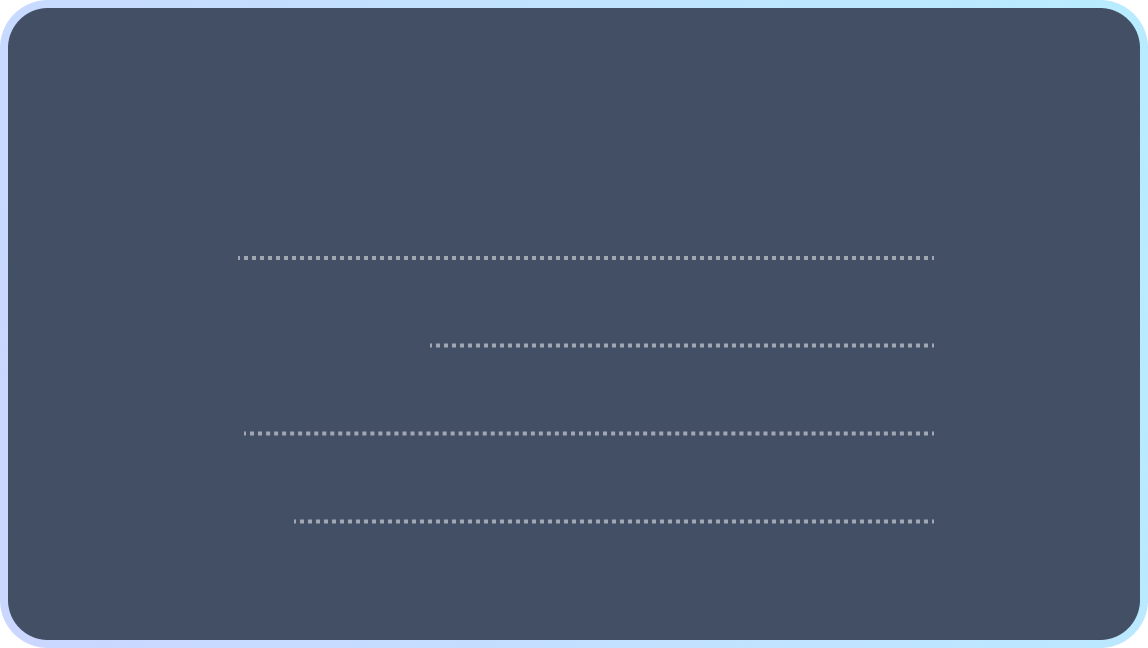
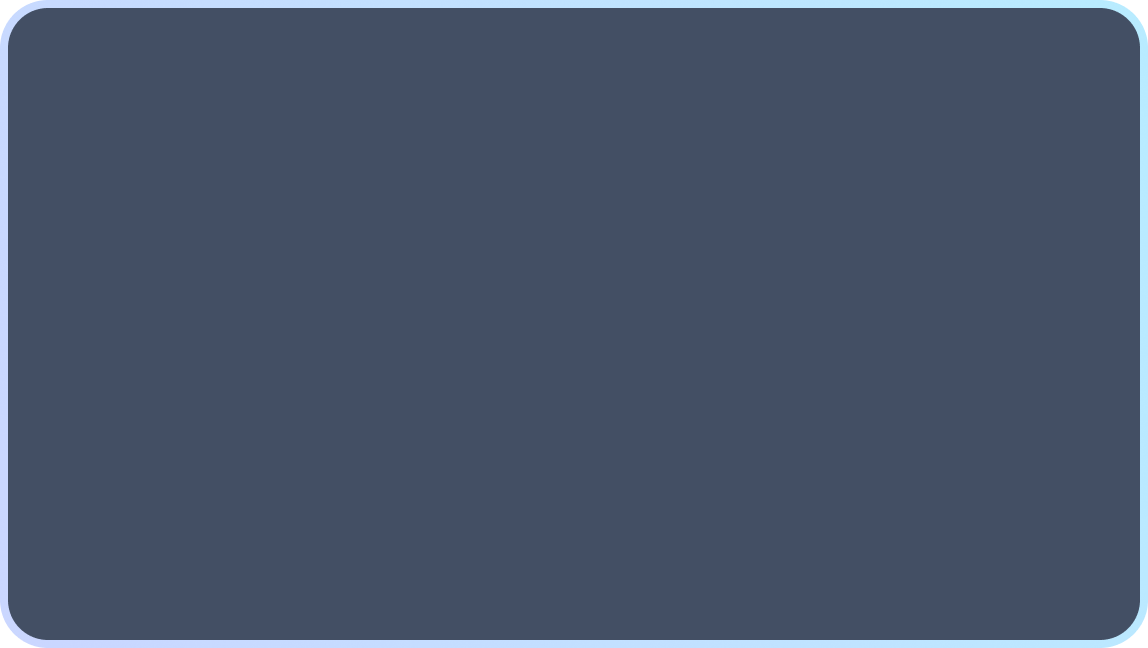
[fix] 랭킹화면- 점선 길이 수정
- desktop 점선 길이 수정

diff --git a/cuketmon/src/Ranking/Ranking.css b/cuketmon/src/Ranking/Ranking.css
@@ -90,6 +90,56 @@ html {
   gap: 72%;
   margin-left: 5.9vw;
 }
+
+/* 숫자 위치 조정 */
+.historyBoard .row1 div:last-child,
+.historyBoard .row2 div:last-child,
+.historyBoard .row3 div:last-child,
+.historyBoard .row4 div:last-child {
+  padding-right: 10vw; /* ← 오른쪽 끝에서 띄움 */
+  text-align: left;
+  min-width: 4ch; /* 숫자 자리 고정 (1~3자리 대비) */
+  line-height: 1;
+}
+
+/* 중간 점선 효과 */
+.historyBoard .row1 div:first-child,
+.historyBoard .row2 div:first-child,
+.historyBoard .row3 div:first-child,
+.historyBoard .row4 div:first-child {
+  position: relative;
+  flex: 1;
+  padding-right: 1vw;
+}
+
+.historyBoard .row1 div:first-child::after,
+.historyBoard .row2 div:first-child::after,
+.historyBoard .row3 div:first-child::after,
+.historyBoard .row4 div:first-child::after {
+  content: "";
+  position: absolute;
+  left: 100%;
+  top: 50%;
+
+  height: 1px;
+  background-image: radial-gradient(currentColor 1.2px, transparent 0.4px);
+  background-size: 6px 1px;
+  background-repeat: repeat-x;
+  transform: translateY(-50%);
+  opacity: 0.85;
+}
+.historyBoard .row1 div:first-child::after {
+  width: 27vw;
+}
+.historyBoard .row2 div:first-child::after {
+  width: 20vw;
+}
+.historyBoard .row3 div:first-child::after {
+  width: 27vw;
+}
+.historyBoard .row4 div:first-child::after {
+  width: 25vw;
+}
 /*모바일 반응형*/
 @media (max-width: 767px) {
   #root,
@@ -150,5 +200,11 @@ html {
   }
   .historyBoard .row4 {
     gap: 70%;
+  }
+  .historyBoard .row1 div:first-child::after,
+  .historyBoard .row2 div:first-child::after,
+  .historyBoard .row3 div:first-child::after,
+  .historyBoard .row4 div:first-child::after {
+    display: none;
   }
 }
